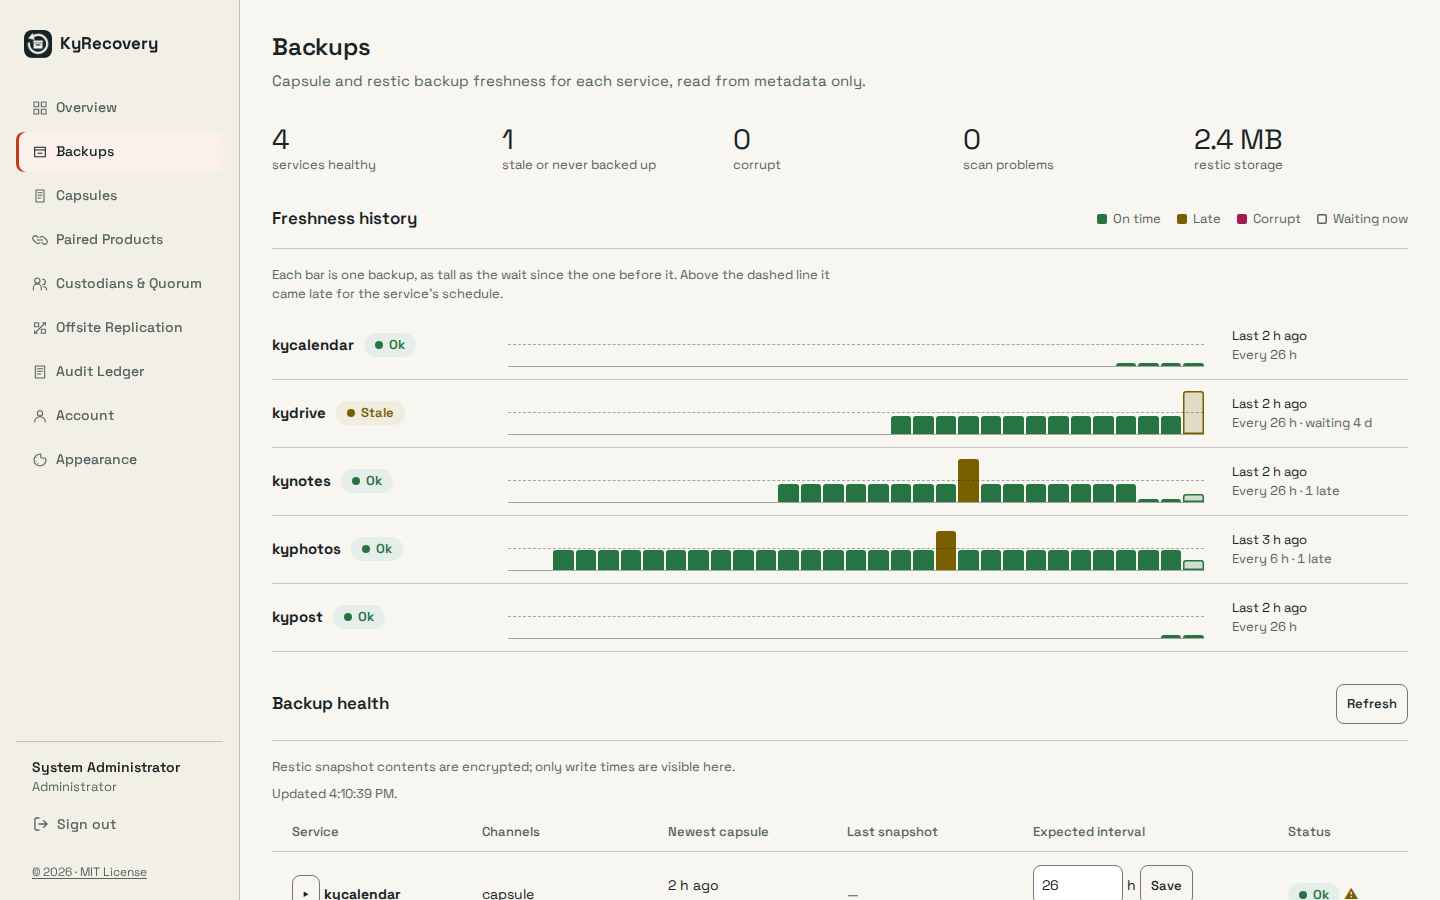
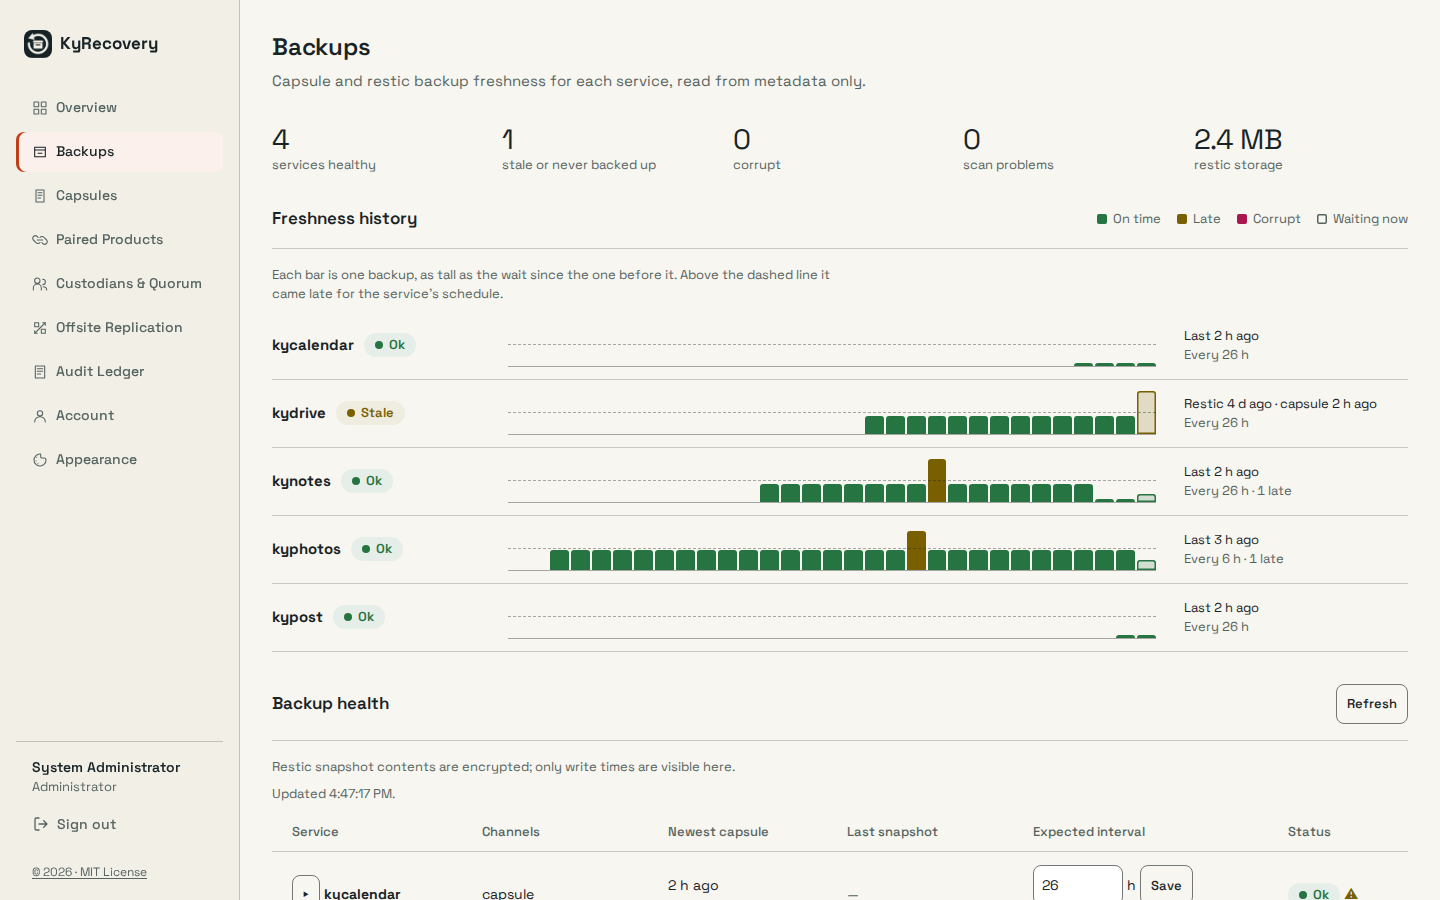
fix(ui): freshness caption names the source behind the stale state
A service with a fresh capsule and a four-day-old restic repository read
"Last 2 h ago" beside a Stale pill. The caption and the row summary now take
freshness from the server's per-source states: while any source is corrupt,
missing, never or stale, every source is named, worst first ("Restic 4 d ago ·
capsule 2 h ago"). Healthy rows keep "Last 2 h ago". Each phrase stays on one
line and the caption column is wider. The after captures are refreshed.

diff --git a/internal/server/static/js/app.js b/internal/server/static/js/app.js
@@ -1335,6 +1335,25 @@ function serviceRows(s, samplesFor) {
 const HISTORY_LATE = 1.1;
 const HISTORY_SLOTS = 31;
 const historyTone = ratio => ratio > HISTORY_LATE ? 'warning' : 'success';
+const BEHIND = ['corrupt', 'missing', 'never', 'stale'];
+
+// The freshness line comes from the server's per-source verdicts, so it cannot contradict the
+// pill: while any source is behind, every source is named, worst first. Returns the phrases.
+function freshnessParts(s) {
+  const sources = [
+    ...(s.instances || []).map(i => ({ channel: 'capsule', at: i.newest?.deposited_at, state: i.state })),
+    ...(s.repos || []).map(r => ({ channel: 'restic', at: r.last_snapshot_at, state: BEHIND.find(f => (r.flags || []).includes(f)) || 'ok' })),
+  ];
+  const rank = x => { const i = BEHIND.indexOf(x.state); return i < 0 ? BEHIND.length : i; };
+  const ago = x => x.at ? fmtAgo(x.at) : 'never';
+  if (!sources.some(x => rank(x) < BEHIND.length)) {
+    const last = newestTime(sources.map(x => x.at));
+    return [last ? 'Last ' + fmtAgo(last) : 'No backups yet'];
+  }
+  const parts = sources.sort((a, b) => rank(a) - rank(b) || new Date(a.at || 0) - new Date(b.at || 0))
+    .map(x => `${x.channel} ${['corrupt', 'missing'].includes(x.state) ? x.state : ago(x)}`);
+  return [...new Set(parts)].slice(0, 3).map((p, i) => i ? p : sentence(p));
+}
 
 function historyRow(s) {
   const exp = Number(s.expected_seconds) || 1;
@@ -1354,18 +1373,18 @@ function historyRow(s) {
   const times = Object.values(newest).sort((a, b) => a - b);
   const bar = (g, now) => `<span class="history-bar${now ? ' history-now' : ''}" data-tone="${esc(g.tone)}" style="--h:${esc(Math.min(g.ratio / (2 * HISTORY_LATE), 1).toFixed(3))}" title="${esc(g.title)}"></span>`;
   let bars = gaps.map(g => bar(g)).join('');
-  let summary = `No backups yet; due every ${fmtDuration(exp)}.`;
-  const facts = ['Every ' + fmtDuration(exp), late && `${late} late`];
+  const fresh = freshnessParts(s);
+  let summary = `${fresh.join(', ')}; due every ${fmtDuration(exp)}.`;
   if (times.length) {
     const wait = (Date.now() - times[0]) / 1000;
-    if (wait / exp > HISTORY_LATE) facts.push('waiting ' + fmtDuration(wait));
     bars += bar({ ratio: wait / exp, tone: historyTone(wait / exp), title: `Now: ${fmtDuration(wait)} waiting for the next backup` }, true);
-    summary = `${gaps.length} gaps between backups, ${late} late${corrupt ? `, ${corrupt} corrupt` : ''}. Last backup ${fmtAgo(times[times.length - 1])}, longest wait now ${fmtDuration(wait)}; due every ${fmtDuration(exp)}.`;
+    summary = `${gaps.length} gaps between backups, ${late} late${corrupt ? `, ${corrupt} corrupt` : ''}. ` + summary;
   }
   return `<li class="history-row">
       <div class="history-name"><strong>${esc(s.service_name)}</strong> ${kyStatus(backupTone(s.state), stateLabel(s.state))}</div>
       <div class="history-bars" role="img" aria-label="${esc(s.service_name + ': ' + summary)}">` + (bars || '<span class="history-none">No backups yet</span>') + `</div>
-      <p class="history-caption">${times.length ? esc('Last ' + fmtAgo(times[times.length - 1])) : 'Never'}<span>${esc(facts.filter(Boolean).join(' · '))}</span></p>
+      <p class="history-caption"><span class="history-fresh">` + fresh.map(p => `<span>${esc(p)}</span>`).join(' · ') +
+      `</span><span class="history-due">${esc('Every ' + fmtDuration(exp) + (late ? ` · ${late} late` : ''))}</span></p>
     </li>`;
 }
 

diff --git a/internal/server/static/css/styles.css b/internal/server/static/css/styles.css
@@ -291,7 +291,7 @@ input[type="checkbox"], input[type="radio"] { accent-color: var(--brass); }
 
 /* Freshness history: one row per service, newest bar on the right. */
 .history-list { list-style: none; margin: 0; padding: 0; }
-.history-row { display: grid; grid-template-columns: 13rem minmax(0, 1fr) 11rem; align-items: center; gap: 8px 28px; min-height: 68px; padding: 10px 0; border-bottom: 1px solid var(--rule); }
+.history-row { display: grid; grid-template-columns: 13rem minmax(0, 1fr) 14rem; align-items: center; gap: 8px 28px; min-height: 68px; padding: 10px 0; border-bottom: 1px solid var(--rule); }
 .history-empty { display: block; color: var(--paper-muted); font-size: var(--ky-type-meta); padding-top: 24px; }
 .history-name { display: flex; flex-wrap: wrap; align-items: center; gap: 6px 10px; min-width: 0; overflow-wrap: anywhere; }
 .history-bars { position: relative; display: flex; justify-content: flex-end; align-items: stretch; gap: 2px; height: 44px; border-bottom: 1px solid var(--rule-strong); }
@@ -303,7 +303,8 @@ input[type="checkbox"], input[type="radio"] { accent-color: var(--brass); }
 .history-now::after { background: color-mix(in srgb, currentColor 18%, transparent); box-shadow: inset 0 0 0 1.5px currentColor; }
 .history-none { align-self: center; margin-right: auto; color: var(--paper-dim); font-size: var(--ky-type-meta); }
 .history-caption { display: flex; flex-direction: column; font-size: var(--ky-type-meta); color: var(--paper); font-variant-numeric: tabular-nums; }
-.history-caption span { color: var(--paper-muted); }
+.history-fresh > span { white-space: nowrap; }
+.history-due { color: var(--paper-muted); }
 .history-legend { display: flex; flex-wrap: wrap; gap: 4px 16px; font-size: var(--ky-type-meta); color: var(--paper-muted); }
 .history-swatch { display: inline-flex; align-items: center; gap: 6px; white-space: nowrap; }
 .history-swatch::before { content: ""; width: 10px; height: 10px; border-radius: 2px; background: var(--success, var(--ky-success)); }

diff --git a/AGENTS.md b/AGENTS.md
@@ -175,7 +175,7 @@ node scripts/test-wasm.mjs
 - Overview facts (capsules stored, custodians of record, audit ledger append state) are one compact line under the evidence; phones stack them.
 - Capsule rows (~44px) lead with service and deposit time (relative, full date in the tooltip), then size, status (Stored until the verify sweep says Verified or Corrupt) and a short ID with a copy button; Download is an icon link with an accessible name. Digest, payload hash, quorum and key open in a detail row. Row actions elsewhere appear on hover or focus.
 - State pills are ky-ui `.ky-status` (`kyStatus` in `app.js`): danger for corrupt, missing, scan errors and failures; warning for stale, never, pending codes and other findings; success for ok, current, paired, active and verified; neutral for stored, pending first backups, revoked and settings such as Manual. Never style state with the accent or a button class.
-- Backups' freshness history (`historyRow`) draws one row per service from the report's bounded `runs` (newest `backupstatus.HistoryRuns`). Bars are gaps per source against interval + 10%, the server's stale line; `scripts/test-overview.mjs` checks the tones, the bound and escaping. Retention controls live in a padded panel body, with three columns on desktop and stacked fields on mobile.
+- Backups' freshness history (`historyRow`) draws one row per service from the report's bounded `runs` (newest `backupstatus.HistoryRuns`). Bars are gaps per source against interval + 10%, the server's stale line. The caption and the row summary take freshness from the server's per-source states (`freshnessLine`): while any source is corrupt, missing, never or stale, every source is named worst first, so a fresher "Last" figure never sits beside a Stale pill. `scripts/test-overview.mjs` checks the tones, the bound, the caption and escaping. Retention controls live in a padded panel body, with three columns on desktop and stacked fields on mobile.
 
 ## Operator documentation
 
